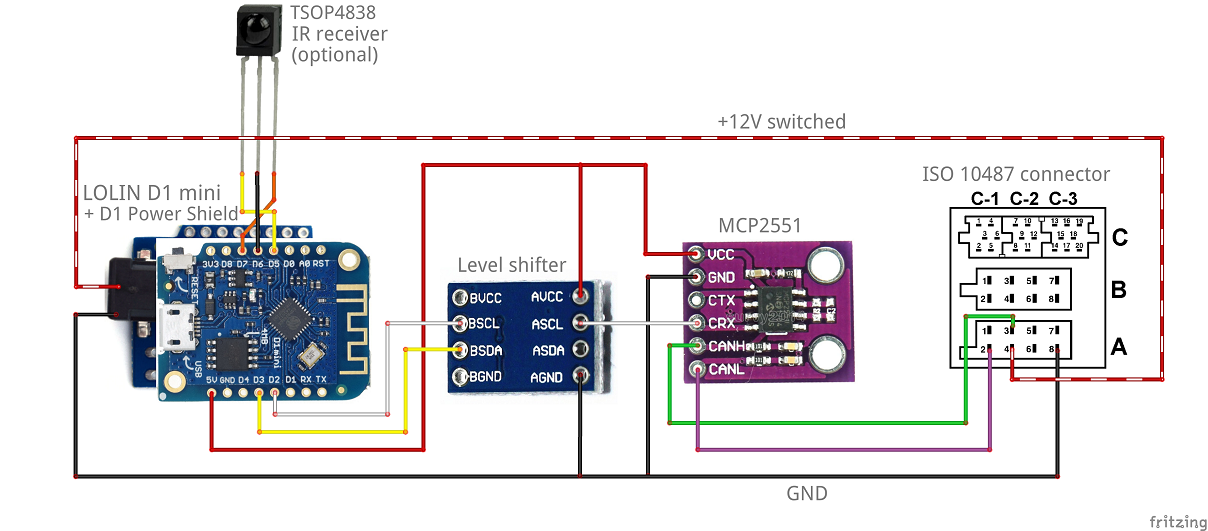
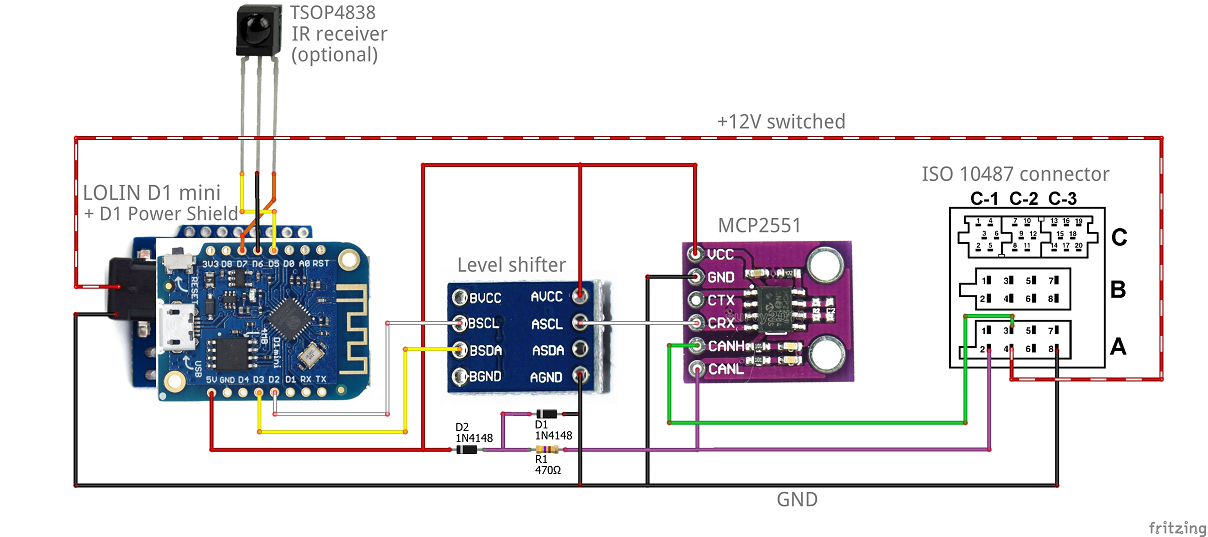
Added clamping circuit to schematics: seems to reduce amount of bit errors

Changed region(s): [[0.0613, 0.2109, 0.9801, 0.9642], [0.2144, 0.0, 0.3063, 0.1205], [0.9495, 0.9642, 1.0, 1.0]]

diff --git a/README.md b/README.md
@@ -175,8 +175,11 @@ There are various possibilities to hook up a ESP8266 based board to your vehicle
       activity occurs on the VAN bus.
       ![schema](extras/Schematics/Schematic%20using%20MCP2551%20permanent%20%2B12V_bb.png)
 
-> 👉 Note: CANH of the transceiver is connected to VAN BAR (DATA B), CANL to VAN (DATA). This may seem illogical
+> 👉 Notes:
+>  * CANH of the transceiver is connected to VAN BAR (DATA B), CANL to VAN (DATA). This may seem illogical
      but in practice it turns out this works best.
+>  * The clamping circuit (D1, D2, R1) seems to (somehow) help in reducing the amount of bit errors
+     (packet CRC errors).
 
 2. Use a [SN65HVD230] transceiver, connected with its CANH and CANL pins to the vehicle's VAN bus.
    The SN65HVD230 transceiver already has 3.3V logic, so it is possible to directly connect the CRX / RXD / R pin of
@@ -189,8 +192,11 @@ There are various possibilities to hook up a ESP8266 based board to your vehicle
 
    The "+12 Volt permanent" variant as described above is possible for this setup too.
 
-> 👉 Note: CANH of the transceiver is connected to VAN BAR (DATA B), CANL to VAN (DATA). This may seem illogical
+> 👉 Notes:
+>  * CANH of the transceiver is connected to VAN BAR (DATA B), CANL to VAN (DATA). This may seem illogical
      but in practice it turns out this works best.
+>  * The clamping circuit (D1, D2, R1) seems to (somehow) help in reducing the amount of bit errors
+     (packet CRC errors).
    
 3. The simplest schematic is not to use a transceiver at all, but connect the VAN DATA line to GrouND using
    two 4.7 kOhm resistors. Connect the GPIO pin of your ESP8266 board to the 1:2 [voltage divider] that is thus
